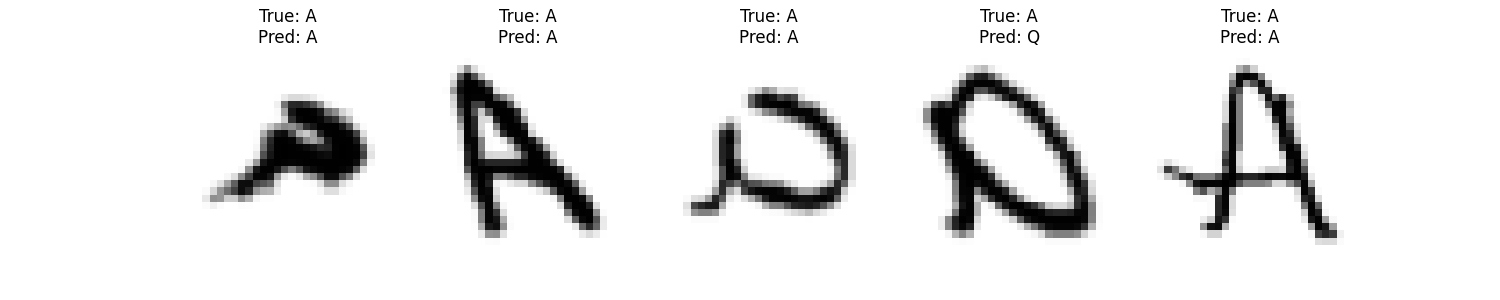
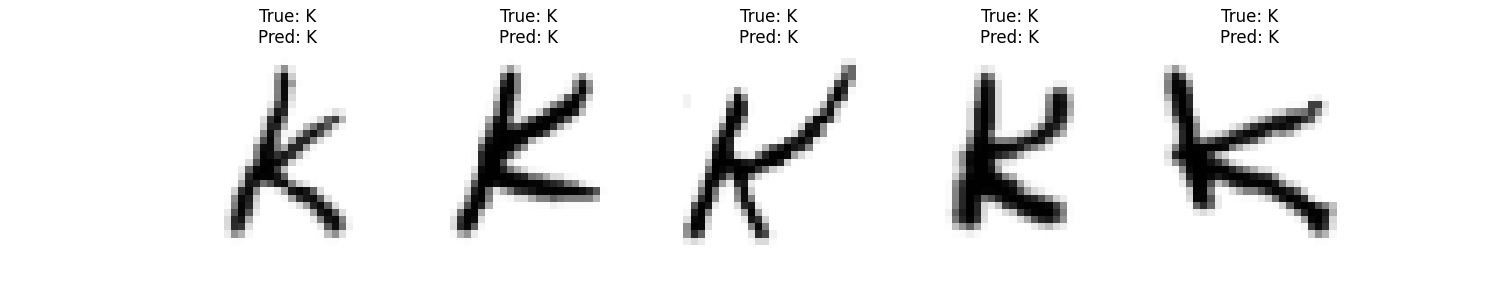
Fixes following our meeting
Fixed training to flip letters the right way (in Main2_flip_fix)
Testing Yamfo to remove inversion (black on white which matches the new training)

diff --git a/src/predict_yamfo_matt.py b/src/predict_yamfo_matt.py
@@ -1,0 +1,124 @@
+import torch
+import torch.nn as nn
+import torch.nn.functional as F
+import cv2
+import numpy as np
+import os
+import difflib
+import matplotlib.pyplot as plt
+
+# Corrected model (26 classes)
+class LetterCNN(nn.Module):
+    def __init__(self):
+        super().__init__()
+        self.conv1 = nn.Conv2d(1, 32, kernel_size=3, padding=1)
+        self.conv2 = nn.Conv2d(32, 64, kernel_size=3, padding=1)
+        self.dropout = nn.Dropout(0.25)
+        self.fc1 = nn.Linear(7 * 7 * 64, 128)  # Fixed dimensions
+        self.fc2 = nn.Linear(128, 26)  # 26 classes A-Z
+
+    def forward(self, x):
+        x = F.relu(self.conv1(x))  # 28x28 -> 28x28
+        x = F.max_pool2d(x, 2)     # 14x14
+        x = F.relu(self.conv2(x))  # 14x14 -> 14x14
+        x = F.max_pool2d(x, 2)     # 7x7
+        x = x.view(x.size(0), -1)
+        x = self.dropout(x)
+        x = F.relu(self.fc1(x))
+        return self.fc2(x)
+
+
+# Load the trained model
+device = torch.device("cuda" if torch.cuda.is_available() else "cpu")
+model = LetterCNN().to(device)
+
+# Path to the trained EMNIST model
+model_path = os.path.join(os.path.dirname(__file__), "../emnist_cnn_corrected.pth")
+if not os.path.exists(model_path):
+    raise FileNotFoundError(f"Model not found: {model_path}")
+
+model.load_state_dict(torch.load(model_path, map_location=device))
+model.eval()
+
+# Predict a single capital letter from a given image
+def predict_letter(img_path):
+    img = cv2.imread(img_path, cv2.IMREAD_GRAYSCALE)
+    if img is None:
+        print(f"Could not read {img_path}")
+        return "?"
+
+    #img = cv2.rotate(img, cv2.ROTATE_90_COUNTERCLOCKWISE)
+    _, binary = cv2.threshold(img, 0, 255, cv2.THRESH_OTSU)
+    resized = cv2.resize(binary, (28, 28))
+
+    normalized = resized.astype("float32") / 255.0
+    
+    # REMOVED THE EXTRA INVERSION
+    tensor = torch.tensor(normalized).unsqueeze(0).unsqueeze(0).to(device)
+
+    with torch.no_grad():
+        output = model(tensor)
+        pred = output.argmax(dim=1).item()
+        # Map predicted class index (0-25) to corresponding ASCII uppercase letter (A-Z)
+
+        answer = chr(pred + 65)  # EMNIST: 0 = 'A'
+        return tensor, answer
+
+# List of known town names in Ahafo Region
+AHAFO_TOWNS = [
+    "AHYIAIYEM", "AMANFROM", "ANIWIAM", "ATANEATA", "BECHEM", "BEDIAKO",
+    "EDASO", "GOASO", "KINAADAIKROM", "KUKUOM", "KWANTENE", "MFRERIKUM",
+    "NEW SAWERESO", "NKASEIM", "NTOTROSU", "SUBINSU", "WURUMUMUSO", "YAMFO"
+]
+
+# Compare predicted name to known town names and return the closest match
+def match_closest_town(predicted, town_list):
+    match = difflib.get_close_matches(predicted, town_list, n=1, cutoff=0.6)
+    return match[0] if match else "No close match found"
+
+# Predict all letters from image files in the YAMFO folder and reconstruct the full name
+def predict_yamfo():
+    yamfo_dir = os.path.join(os.path.dirname(__file__), "../data/YAMFO")
+    if not os.path.isdir(yamfo_dir):
+        print("Folder not found:", yamfo_dir)
+        return
+
+    images = sorted([
+        f for f in os.listdir(yamfo_dir)
+        if f.lower().endswith(".png")
+    ])
+
+    if not images:
+        print("No PNG images found in YAMFO folder.")
+        return
+
+    predictions = []
+    for filename in images:
+        path = os.path.join(yamfo_dir, filename)
+        predicted = predict_letter(path)
+        predictions.append(predicted)
+        print(f"{filename} → {predicted}")
+
+    name = "".join(predictions)
+    print("\nFinal predicted name:", name)
+
+    # Attempt to match predicted name with known towns
+    best_match = match_closest_town(name, AHAFO_TOWNS)
+    print("Closest town match:", best_match)
+
+if __name__ == "__main__":
+    test_image_path = os.path.join(os.path.dirname(__file__), "../data/YAMFO/M.png")
+    image, pred  = predict_letter(test_image_path)
+    print(f"The Answer is: {pred}")
+
+    fig, axes = plt.subplots(1, 5, figsize=(15, 3))
+    for i in range(5):
+        img = image.cpu().squeeze()
+        axes[i].imshow(img, cmap='gray')
+        axes[i].set_title(f"True: M \nPred: {pred}")
+        axes[i].axis('off')
+    plt.savefig("yamfo_predictions.png")
+    print("Sample predictions saved as sample_predictions.png")
+    
+    
+    #predict_yamfo()

diff --git a/ind_study_emnist/main2_flip_fix.py b/ind_study_emnist/main2_flip_fix.py
@@ -4,6 +4,7 @@ import torch.nn.functional as F
 from torch.utils.data import DataLoader
 from torchvision import datasets, transforms
 import os
+import random
 import matplotlib.pyplot as plt
 
 device = torch.device("cuda" if torch.cuda.is_available() else "cpu")
@@ -11,6 +12,7 @@ device = torch.device("cuda" if torch.cuda.is_available() else "cpu")
 # Corrected data transforms
 transform = transforms.Compose([
     transforms.Lambda(lambda img: transforms.functional.rotate(img, -90)),
+    transforms.RandomHorizontalFlip(p=1),
     transforms.Resize((28, 28)),
     transforms.ToTensor(),
     transforms.Lambda(lambda x: 1 - x)  # Invert: black background, white letter
@@ -98,34 +100,61 @@ def evaluate_model():
             total += labels.size(0)
     
     accuracy = 100 * correct / total
+    print(f"Total Tests: {total}") 
     print(f"Test Accuracy: {accuracy:.2f}%")
     return accuracy
 
-# Quick training (5 minutes on GPU, ~15 on CPU)
+### Quick training (5 minutes on GPU, ~15 on CPU)
 train_model(epochs=5)
 accuracy = evaluate_model()
+
+# Load the trained model
+# device = torch.device("cuda" if torch.cuda.is_available() else "cpu")
+# model = LetterCNN().to(device)
+
+# Path to the trained EMNIST model
+model_path = "emnist_cnn_corrected.pth"
+if not os.path.exists(model_path):
+    raise FileNotFoundError(f"Model not found: {model_path}")
+
+model.load_state_dict(torch.load(model_path, map_location=device))
+evaluate_model()
+
 
 # Sample prediction visualization
 def show_sample_prediction():
     model.eval()
-    dataiter = iter(test_loader)
-    images, labels = next(dataiter)
-    images, labels = images.to(device), labels.to(device)
+    
+    #Pick Random Starting point in Test Data (to grab 5 images)
+    offset = random.randint(0, len(test_data))
+    print(f"Starting point is {offset} out of {len(test_data)}")
+
+    found = False
+    total = 0
     
     with torch.no_grad():
-        outputs = model(images)
-        _, preds = torch.max(outputs, 1)
+        for images, labels in test_loader:
+            images, labels = images.to(device), labels.to(device)
+            outputs = model(images)
+            _, predicted = torch.max(outputs, 1)
+            total += labels.size(0)
+            if (not found) and total >= offset:
+                found = True
+                save_images = images
+                save_labels = labels
+                save_preds = predicted
+
     
-    # Display first 5 images
+    # Display the 5 images    
     fig, axes = plt.subplots(1, 5, figsize=(15, 3))
     for i in range(5):
-        img = images[i].cpu().squeeze()
+        img = save_images[i].cpu().squeeze()
         axes[i].imshow(img, cmap='gray')
-        axes[i].set_title(f"True: {chr(labels[i].item()+65)}\nPred: {chr(preds[i].item()+65)}")
+        axes[i].set_title(f"True: {chr(save_labels[i].item()+65)}\nPred: {chr(save_preds[i].item()+65)}")
         axes[i].axis('off')
     plt.savefig("sample_predictions.png")
     print("Sample predictions saved as sample_predictions.png")
 
 show_sample_prediction()
 
-print(f"\nTraining complete! Final accuracy: {accuracy:.2f}%")
+# print(f"\nTraining complete! Final accuracy: {accuracy:.2f}%")
